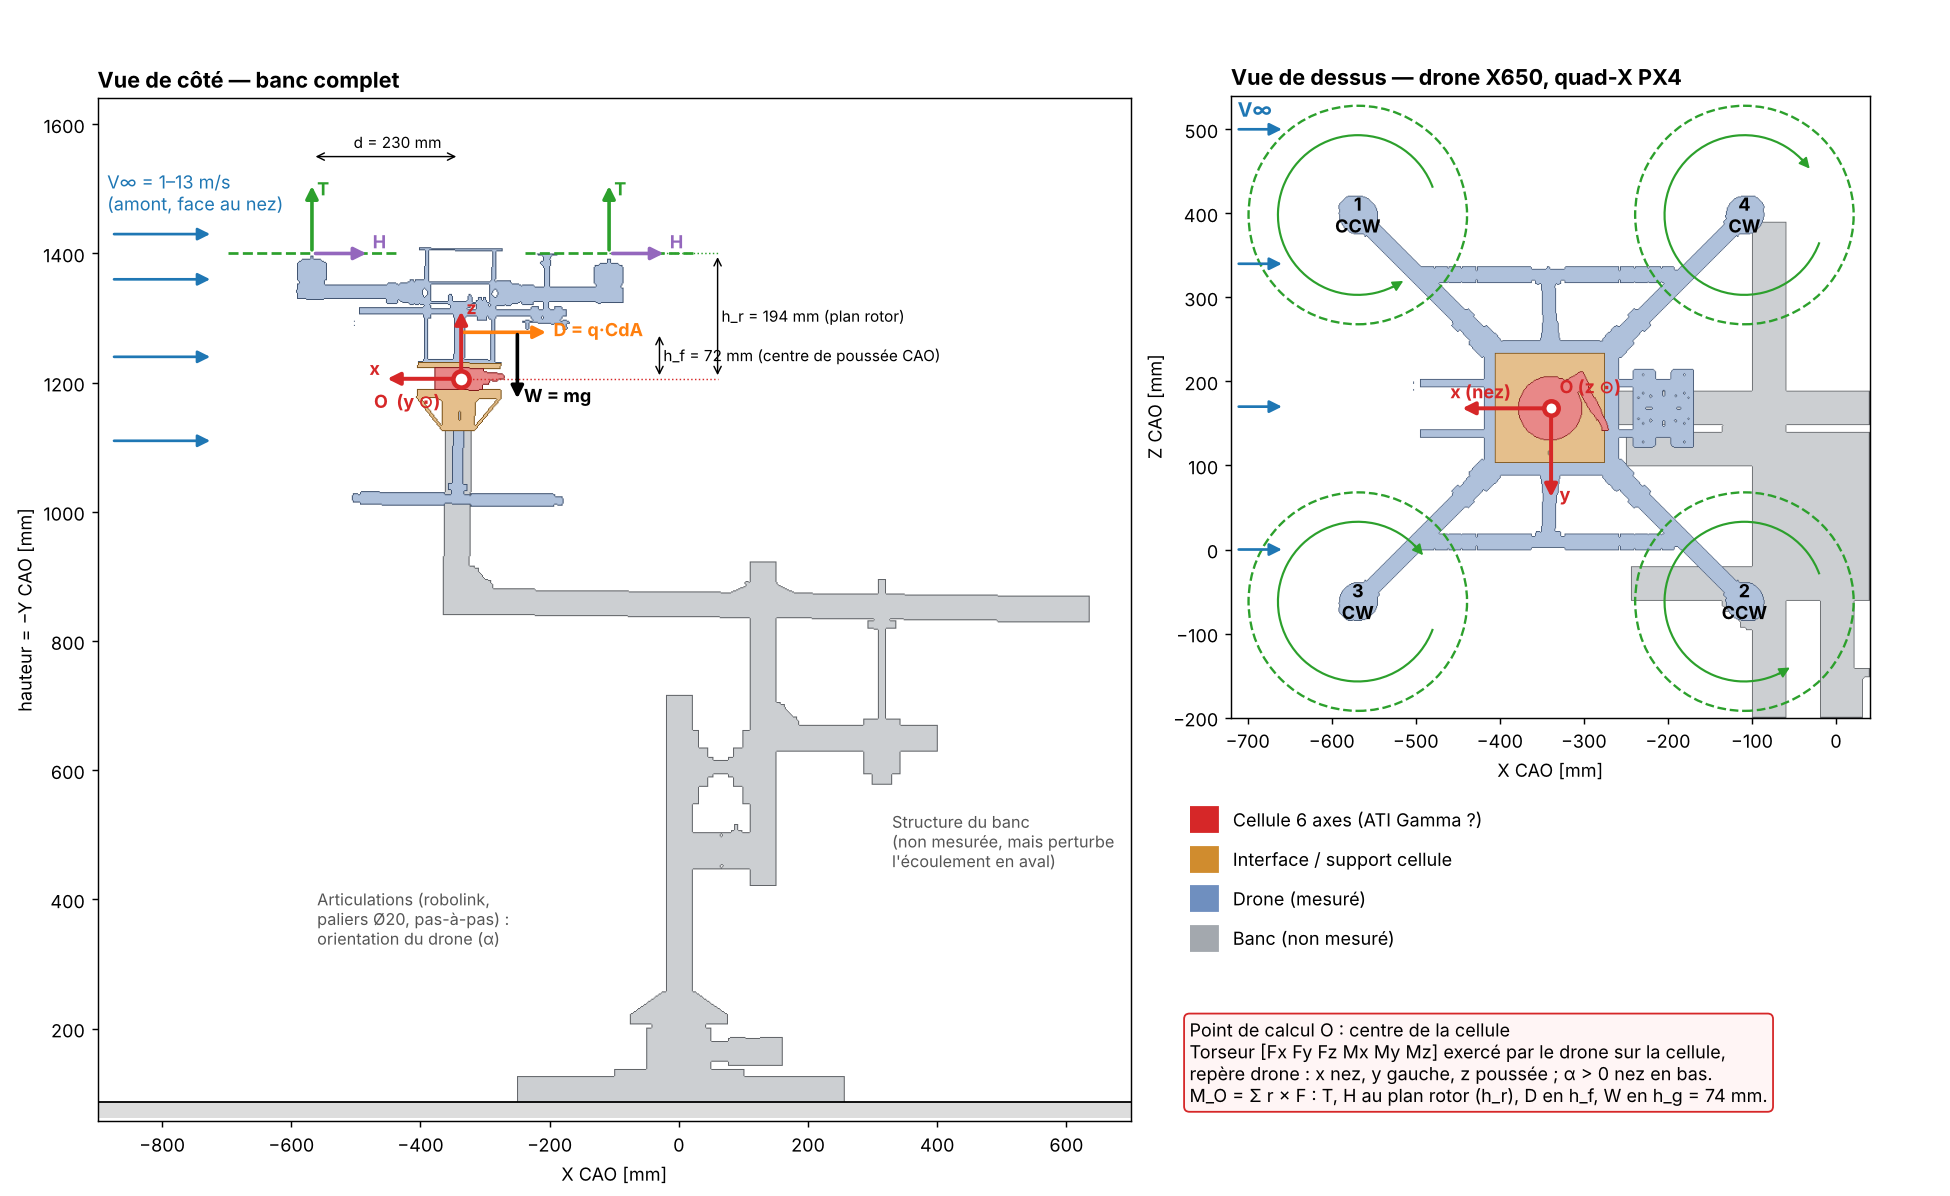
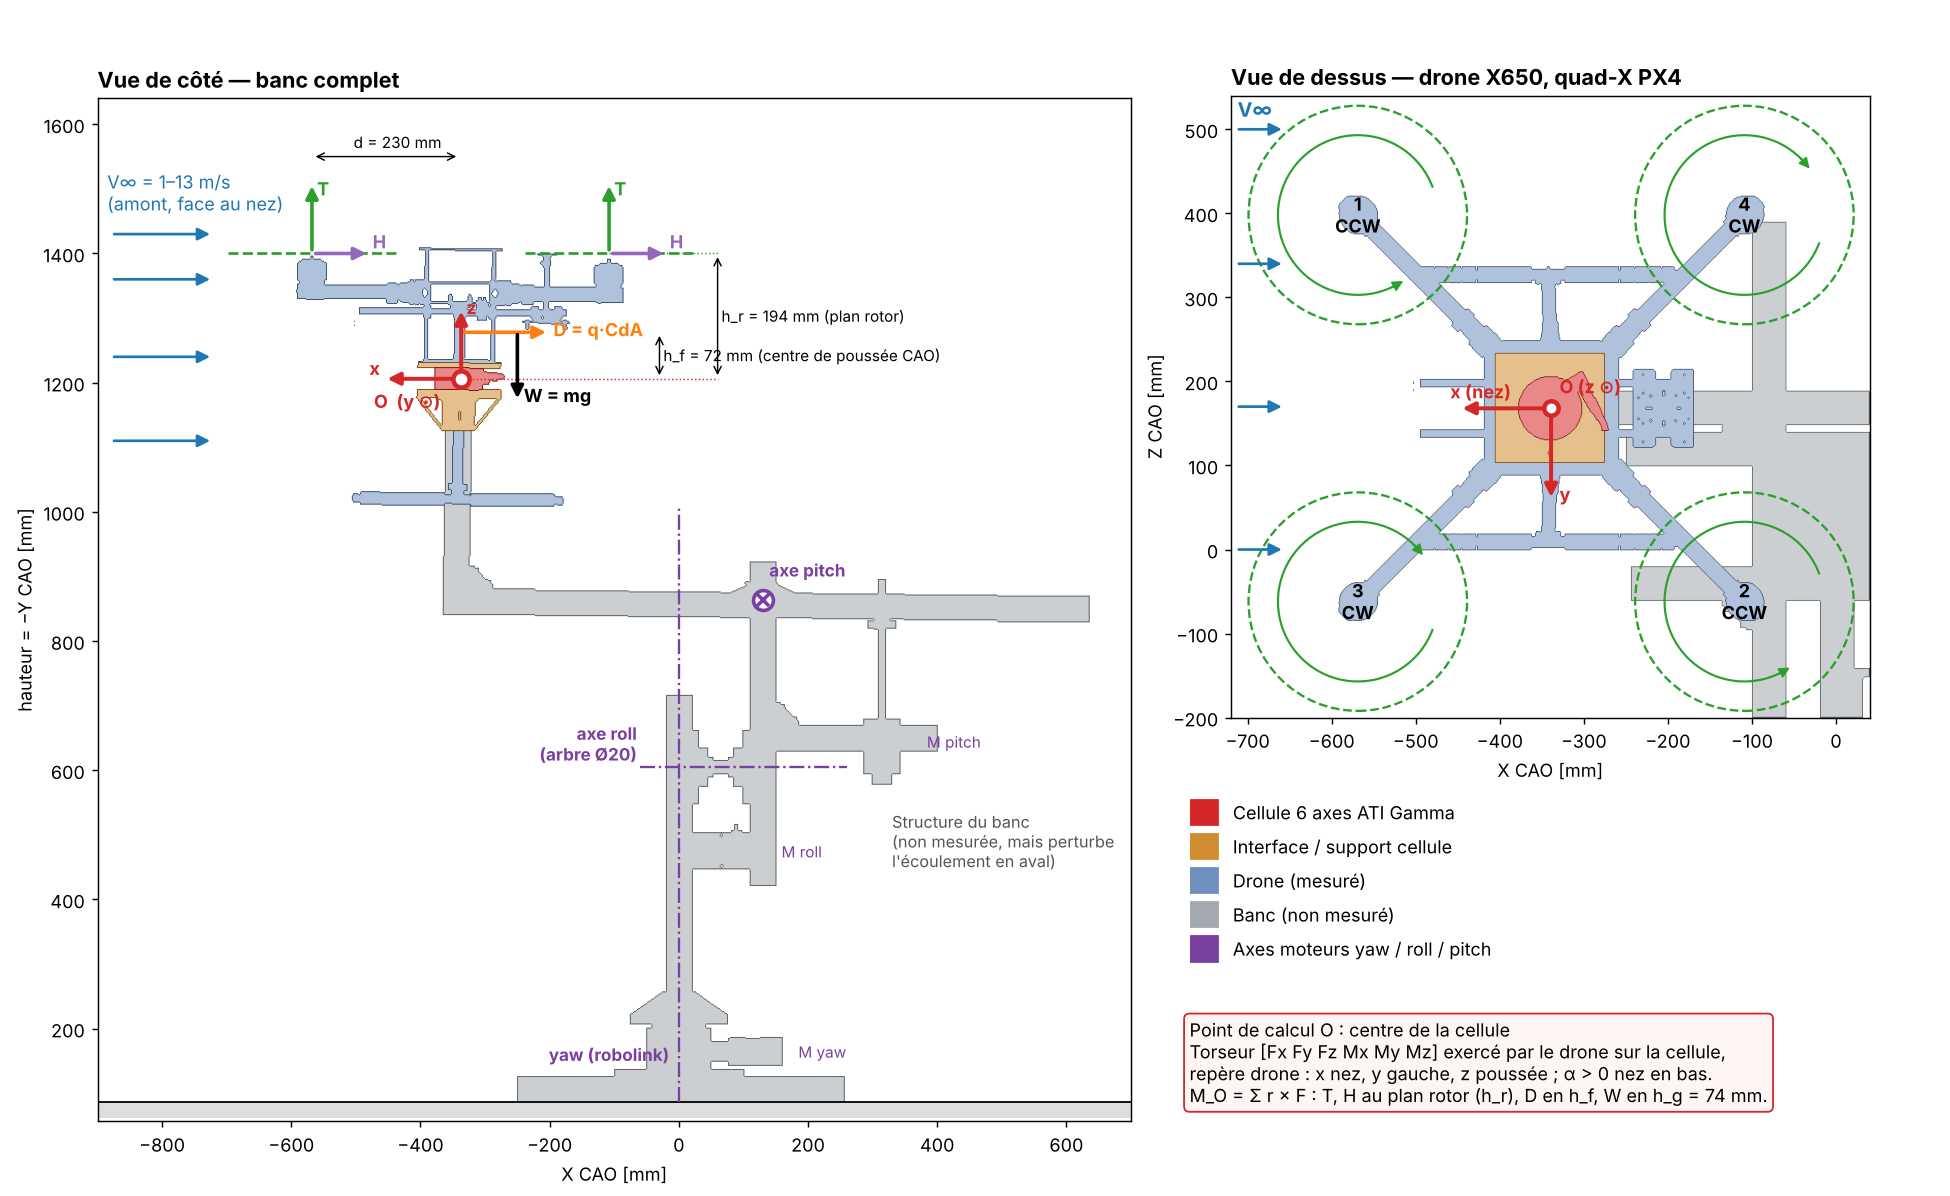
Motor joint torques (yaw/roll/pitch) from CAD axes; diagram shows joint axes; Gamma confirmed
Claude-Session: https://claude.ai/code/session_01CcFw68i3JE8M7YFdoZAnkQ

diff --git a/bench/results.py b/bench/results.py
@@ -1,7 +1,8 @@
 """Balayage en régime : efforts locaux au drone (rotor) et au banc (cellule, base).
 
 Sorties dans Results/ : PNG + CSV. Modèle : BEMT utilisateur + sillage avant (E21–E26).
-α = 0, poids taré. Base = centre de l'articulation robolink (CAO), poids propre du banc exclu.
+α = 0, poids taré. Articulations (CAO) : couple que chaque moteur doit tenir, poids du drone inclus,
+poids propre du banc exclu.
 """
 import sys, warnings
 from pathlib import Path
@@ -20,11 +21,14 @@ OUT = Path(__file__).resolve().parents[1] / "Results"
 RPM = np.arange(3000, 9001, 500)
 VS = [0, 5, 9, 13]                               # m/s
 COL = ["#6da7ec", "#2a78d6", "#1c5cab", "#0d366b"]  # rampe ordinale, validée
-R_BO = np.array([0.337, -0.136, 1.037])          # m, base -> cellule (repère drone, CAO)
+# Axes moteurs (CAO -> repère drone : x = -X, y = -(Z - Z_O), z = hauteur) : r_PO = O - P [m], axe u
+JOINTS = {"yaw":   (np.array([0.337, -0.136, 1.037]), np.array([0, 0, 1.0])),   # robolink, axe vertical
+          "roll":  (np.array([0.402, -0.128, 0.601]), np.array([1.0, 0, 0])),   # arbre Ø20, h = 605 mm
+          "pitch": (np.array([0.467, -0.064, 0.342]), np.array([0, 1.0, 0]))}   # arbre Ø20, h = 864 mm
 
 b = Bench()
 rot = {}                                          # (V, rpm) -> [T, H, Q, Mr, T_ar]
-cell, base = {}, {}
+cell, joint = {}, {}
 for V in VS:
     for n in RPM:
         Om = n * np.pi / 30
@@ -34,7 +38,8 @@ for V in VS:
         w = wrench(b, Om, V, rot=rotor_bemt, dv=dv)
         rot[V, n] = [T, H, Q, Mr, T_ar]
         cell[V, n] = w
-        base[V, n] = np.r_[w[:3], w[3:] + np.cross(R_BO, w[:3])]   # M_B = M_O + r_BO × F
+        wg = wrench(b, Om, V, rot=rotor_bemt, dv=dv, tare=False)      # poids réel aux moteurs
+        joint[V, n] = [u @ (wg[3:] + np.cross(r, wg[:3])) for r, u in JOINTS.values()]  # E27
     print(f"V = {V:2d} m/s  ok")
 
 
@@ -43,7 +48,7 @@ def sweep(data, idx):
 
 
 def grid(panels, data, fname, title, nrow, ncol, lim=None):
-    fig, axs = plt.subplots(nrow, ncol, figsize=(4.2 * ncol, 3.3 * nrow), sharex=True)
+    fig, axs = plt.subplots(nrow, ncol, figsize=(4.2 * ncol, 3.3 * nrow), sharex=True, squeeze=False)
     for ax, (i, lab, unit) in zip(axs.flat, panels):
         for V, c in zip(VS, COL):
             ax.plot(RPM, sweep(data, i)[V], color=c, lw=2, label=f"V = {V} m/s")
@@ -84,9 +89,9 @@ grid([(0, "T rotor avant", "N"), (4, "T rotor arrière (sillage avant)", "N"),
 comp = [("Fx", "N"), ("Fy", "N"), ("Fz", "N"), ("Mx", "N·m"), ("My", "N·m"), ("Mz", "N·m")]
 grid([(i, f"{c} cellule", u) for i, (c, u) in enumerate(comp)], cell,
      "2_cellule_vs_rpm.png", "Banc — torseur au centre de la cellule O (taré)", 2, 3, LIMITS)
-grid([(i, f"{c} base", u) for i, (c, u) in enumerate(comp)], base,
-     "3_base_vs_rpm.png", "Banc — torseur à la base (articulation robolink), poids du banc exclu", 2, 3)
+grid([(i, f"τ {k}", "N·m") for i, k in enumerate(JOINTS)], joint, "3_articulations_vs_rpm.png",
+     "Banc — couple à tenir par moteur (poids drone inclus, poids du banc exclu)", 1, 3)
 csv(rot, ["T_av_N", "H_N", "Q_Nm", "Mr_Nm", "T_ar_N"], "1_drone_rotor_vs_rpm.csv")
 csv(cell, [c for c, _ in comp], "2_cellule_vs_rpm.csv")
-csv(base, [c for c, _ in comp], "3_base_vs_rpm.csv")
+csv(joint, [f"tau_{k}_Nm" for k in JOINTS], "3_articulations_vs_rpm.csv")
 print(f"-> {OUT}")

diff --git a/bench/loads.py b/bench/loads.py
@@ -95,7 +95,7 @@ def wrench(b, Om, V, alpha=0.0, tare=True, rot=rotor, dv=0.0):
     return np.concatenate([F, M])
 
 
-# Gamma SI-130-10 supposé (À CONFIRMER) : Fxy, Fz, Mxy, Mz
+# ATI Gamma confirmé ; calibration SI-130-10 supposée (À CONFIRMER) : Fxy, Fz, Mxy, Mz
 LIMITS = np.array([130, 130, 400, 10, 10, 10])
 
 if __name__ == "__main__":

diff --git a/team/BOARD.md b/team/BOARD.md
@@ -41,3 +41,6 @@ Validation sur la fig. 19(a) numérisée à 300 dpi (bruit ±0.07) : X/R=2 → 0
 Fig. 19(a), relevé pixel avec grille locale (la page est inclinée d'environ 9 px) : χ = 45° à X/R = 1.76/2.26/2.97 → 0.35/0.23/0.12 contre 0.34/0.22/0.13 pour le modèle ; χ = 76° → 1.30/1.10/0.88 contre 1.29/1.07/0.84 ; χ = 63° à X/R = 1.76/2.97 → 0.80/0.33 contre 0.77/0.37. Écart ≤ 0.04.
 Signes : V_a0 = V cos(a_disk) + w_upwash = V sinα + Δv (Section.py l. 240), donc Δv > 0 fait baisser T ; rotors arrière en x = −d : ΔM_y = −x ΔT = 2d ΔT_ar < 0, le drone cabre ; −0.78 × 0.46 = −0.36 N·m.
 Limites : X/R = 3.54 est hors de la fig. (extrapolation) ; sillage rigide sans contraction ni enroulement, donc η est majorant à χ > 70° ; domaine V ≳ v_h raisonnable (en dessous, χ < 45° et η < 0.09).
+[ORCH] #8 — Utilisateur : capteur ATI Gamma confirmé (calibration inconnue). Banc à 3 axes motorisés, axes repris de la CAO : yaw = robolink à la base, roll = arbre Ø20 à h = 605, pitch = arbre Ø20 à h = 864 (X = 130).
+Couples moteurs (E27) dans Results/3. À 9000 tr/min et 13 m/s : τ_pitch ≈ −16, τ_roll ≈ −3.5, τ_yaw ≈ −0.75 N·m. Contrôle : τ_pitch ≈ 0 au stationnaire sans vent.
+Reste à faire : attitude générale (φ, θ, ψ) → dérapage et roulis vus par les rotors et le sillage.

diff --git a/CLAUDE.md b/CLAUDE.md
@@ -1,6 +1,6 @@
 # DroneBench
 
-Banc d'efforts du VKI (EAU 2505) : un drone Holybro X650 monté sur une cellule 6 axes, au bout d'un bras robotisé.
+Banc d'efforts du VKI (EAU 2505) : un drone Holybro X650 sur une cellule 6 axes ATI Gamma, au bout d'un bras à 3 axes motorisés (yaw à la base, roll, pitch).
 Deux cas : sans vent, et en soufflerie de 1 à 13 m/s.
 
 - Modèle : `bench/loads.py`
@@ -17,5 +17,5 @@ Deux cas : sans vent, et en soufflerie de 1 à 13 m/s.
 - Économiser les tokens : réponses courtes, lecture ciblée, pas de récapitulatif redondant.
 - Python de niveau ingénieur aéro : SI, commentaires succincts, prints épurés.
 - L'utilisateur s'entraîne à lire les équations : pour toute nouvelle équation, donner une « Lecture » d'une ligne.
-- Hypothèses non confirmées (marquées « À CONFIRMER » dans le code) : masse, hélices, CdA, modèle de capteur.
+- Hypothèses non confirmées (marquées « À CONFIRMER » dans le code) : CdA, calibration du Gamma (SI-32-2.5, SI-65-5 ou SI-130-10), masses du banc.
 - Équations en LaTeX (`$...$`, rendu GitHub) ; dans les tableaux, utiliser `\lvert x\rvert` et non `|x|`.

diff --git a/docs/equations.md b/docs/equations.md
@@ -84,3 +84,11 @@ Castles & De Leeuw (NACA Rep. 1184, 1954) : disque à charge uniforme, sillage c
 | E26 | $V_{a0} = V\sin\alpha + \Delta v_{ar}$ (attribut `w_upwash` de la BEMT) | Le rotor arrière voit le sillage avant comme une montée : son incidence baisse, donc sa poussée aussi. |
 
 Domaine : le sillage n'est rigide que si $V \gtrsim v_h$ (≈ 6.9 m/s ici, χ ≳ 50°). En dessous, η < 0.1 et l'effet est quasi nul. Le modèle néglige l'enroulement en deux tourbillons marginaux (χ > 70°) et l'effet croisé du rotor avant opposé (η ≈ −0.05 à χ = 75°).
+
+## Couples aux moteurs du banc (`bench/results.py`)
+
+| # | Équation | Lecture |
+|---|---|---|
+| E27 | $\tau_j = \mathbf{u}_j\cdot\left(\mathbf{M}_O + \mathbf{r}_{P_jO}\times\mathbf{F}\right)$ | Le moteur $j$ ne tient que la composante du moment, transporté sur son axe, le long de cet axe. Le reste passe par les paliers. Le poids du drone est inclus, car il n'y a pas de tare côté moteur. |
+
+Contrôle : à $V = 0$ et au régime de stationnaire (6740 tr/min), $T = mg$, donc $\tau_{pitch} \approx 0$. C'est bien ce que montre la figure 3.

diff --git a/Results/README.md b/Results/README.md
@@ -6,7 +6,7 @@ Généré par `python3 bench/results.py` (environ 75 s). Conditions : α = 0, po
 |---|---|
 | `1_drone_rotor_vs_rpm` | Efforts locaux par rotor : T avant, T arrière (avec sillage), H, Q, M_r |
 | `2_cellule_vs_rpm` | Torseur au centre O de la cellule (point de mesure) |
-| `3_base_vs_rpm` | Torseur à la base (articulation robolink), poids propre du banc exclu |
+| `3_articulations_vs_rpm` | Couple à tenir par les moteurs yaw, roll et pitch (E27), poids du drone inclus, poids du banc exclu |
 
-Base : $\mathbf{M}_B = \mathbf{M}_O + \mathbf{r}_{BO}\times\mathbf{F}$, avec $\mathbf{r}_{BO} = (0.337,\,-0.136,\,1.037)$ m dans le repère drone (CAO).
+Axes (CAO) : yaw = robolink, vertical, en X = 0 ; roll = arbre Ø20, longitudinal, h = 605 mm ; pitch = arbre Ø20, latéral, en X = 130 mm et h = 864 mm.
 Les CSV contiennent les mêmes données (colonnes `V_ms`, `rpm`, …), à superposer aux mesures.
